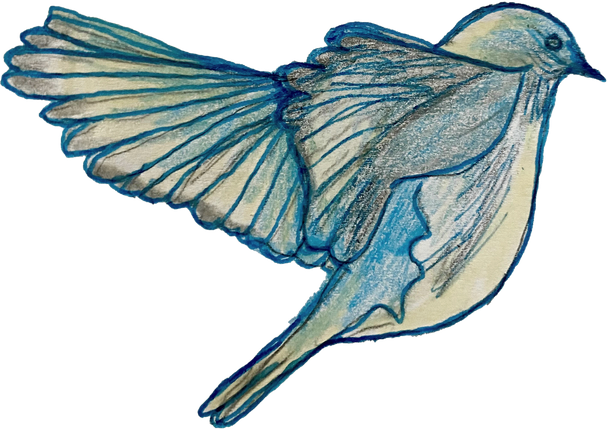
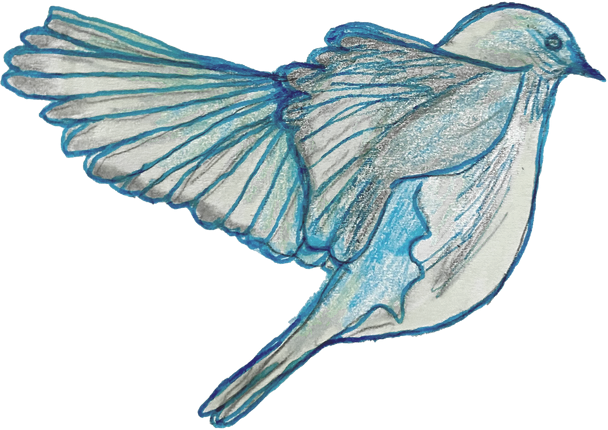
Cool and lighten bird/nest illustrations, add knitting accent image
- Recolor the nest and all four bluebird drawings: shift their yellow
  tones cooler/greener, then lighten and slightly fade them, to match
  the rest of the site's cooler palette
- Add a small knitting line-art accent image to the About page, with a
  transparent background (baked in from the original's opaque white) and
  a dark-mode invert so it stays visible on both themes

diff --git a/client/src/pages/About.jsx b/client/src/pages/About.jsx
@@ -2,6 +2,7 @@ import { Link } from 'react-router-dom'
 import { useRevealOnScroll } from '../hooks/useRevealOnScroll.js'
 import aboutPhoto from './images/about.jpg'
 import nestDrawing from './images/nest.png'
+import knittingDrawing from './images/knitting.png'
 import './About.css'
 
 /*
@@ -82,6 +83,7 @@ function About() {
           again. That bilateral rhythm gave my nervous system something steady
           to follow as I healed from PTSD.
         </p>
+        <img src={knittingDrawing} alt="" className="about__knitting-accent" />
         <p>
           Knitting became a way of staying present when my mind wanted to
           disappear. It gave me a small, tangible way back into my body.

diff --git a/client/src/pages/About.css b/client/src/pages/About.css
@@ -153,6 +153,22 @@
   filter: saturate(64%) blur(0.6px);
 }
 
+.about__knitting-accent {
+  display: block;
+  width: auto;
+  height: 10rem;
+  margin: var(--space-lg) auto;
+  opacity: 0.85;
+}
+
+/* The line art is black ink on a transparent background, so it nearly
+   vanishes against the dark theme's background — invert it to white
+   there instead. Alpha (the transparent background itself) is untouched
+   by filter: invert, only the ink color flips. */
+:root[data-theme="dark"] .about__knitting-accent {
+  filter: invert(1);
+}
+
 /*
  * Echoes Made Whole's backdrop (client/src/pages/images/quilt-fabric.png)
  * and StoryCard's dashed stitch inset, scoped to just this one section so
